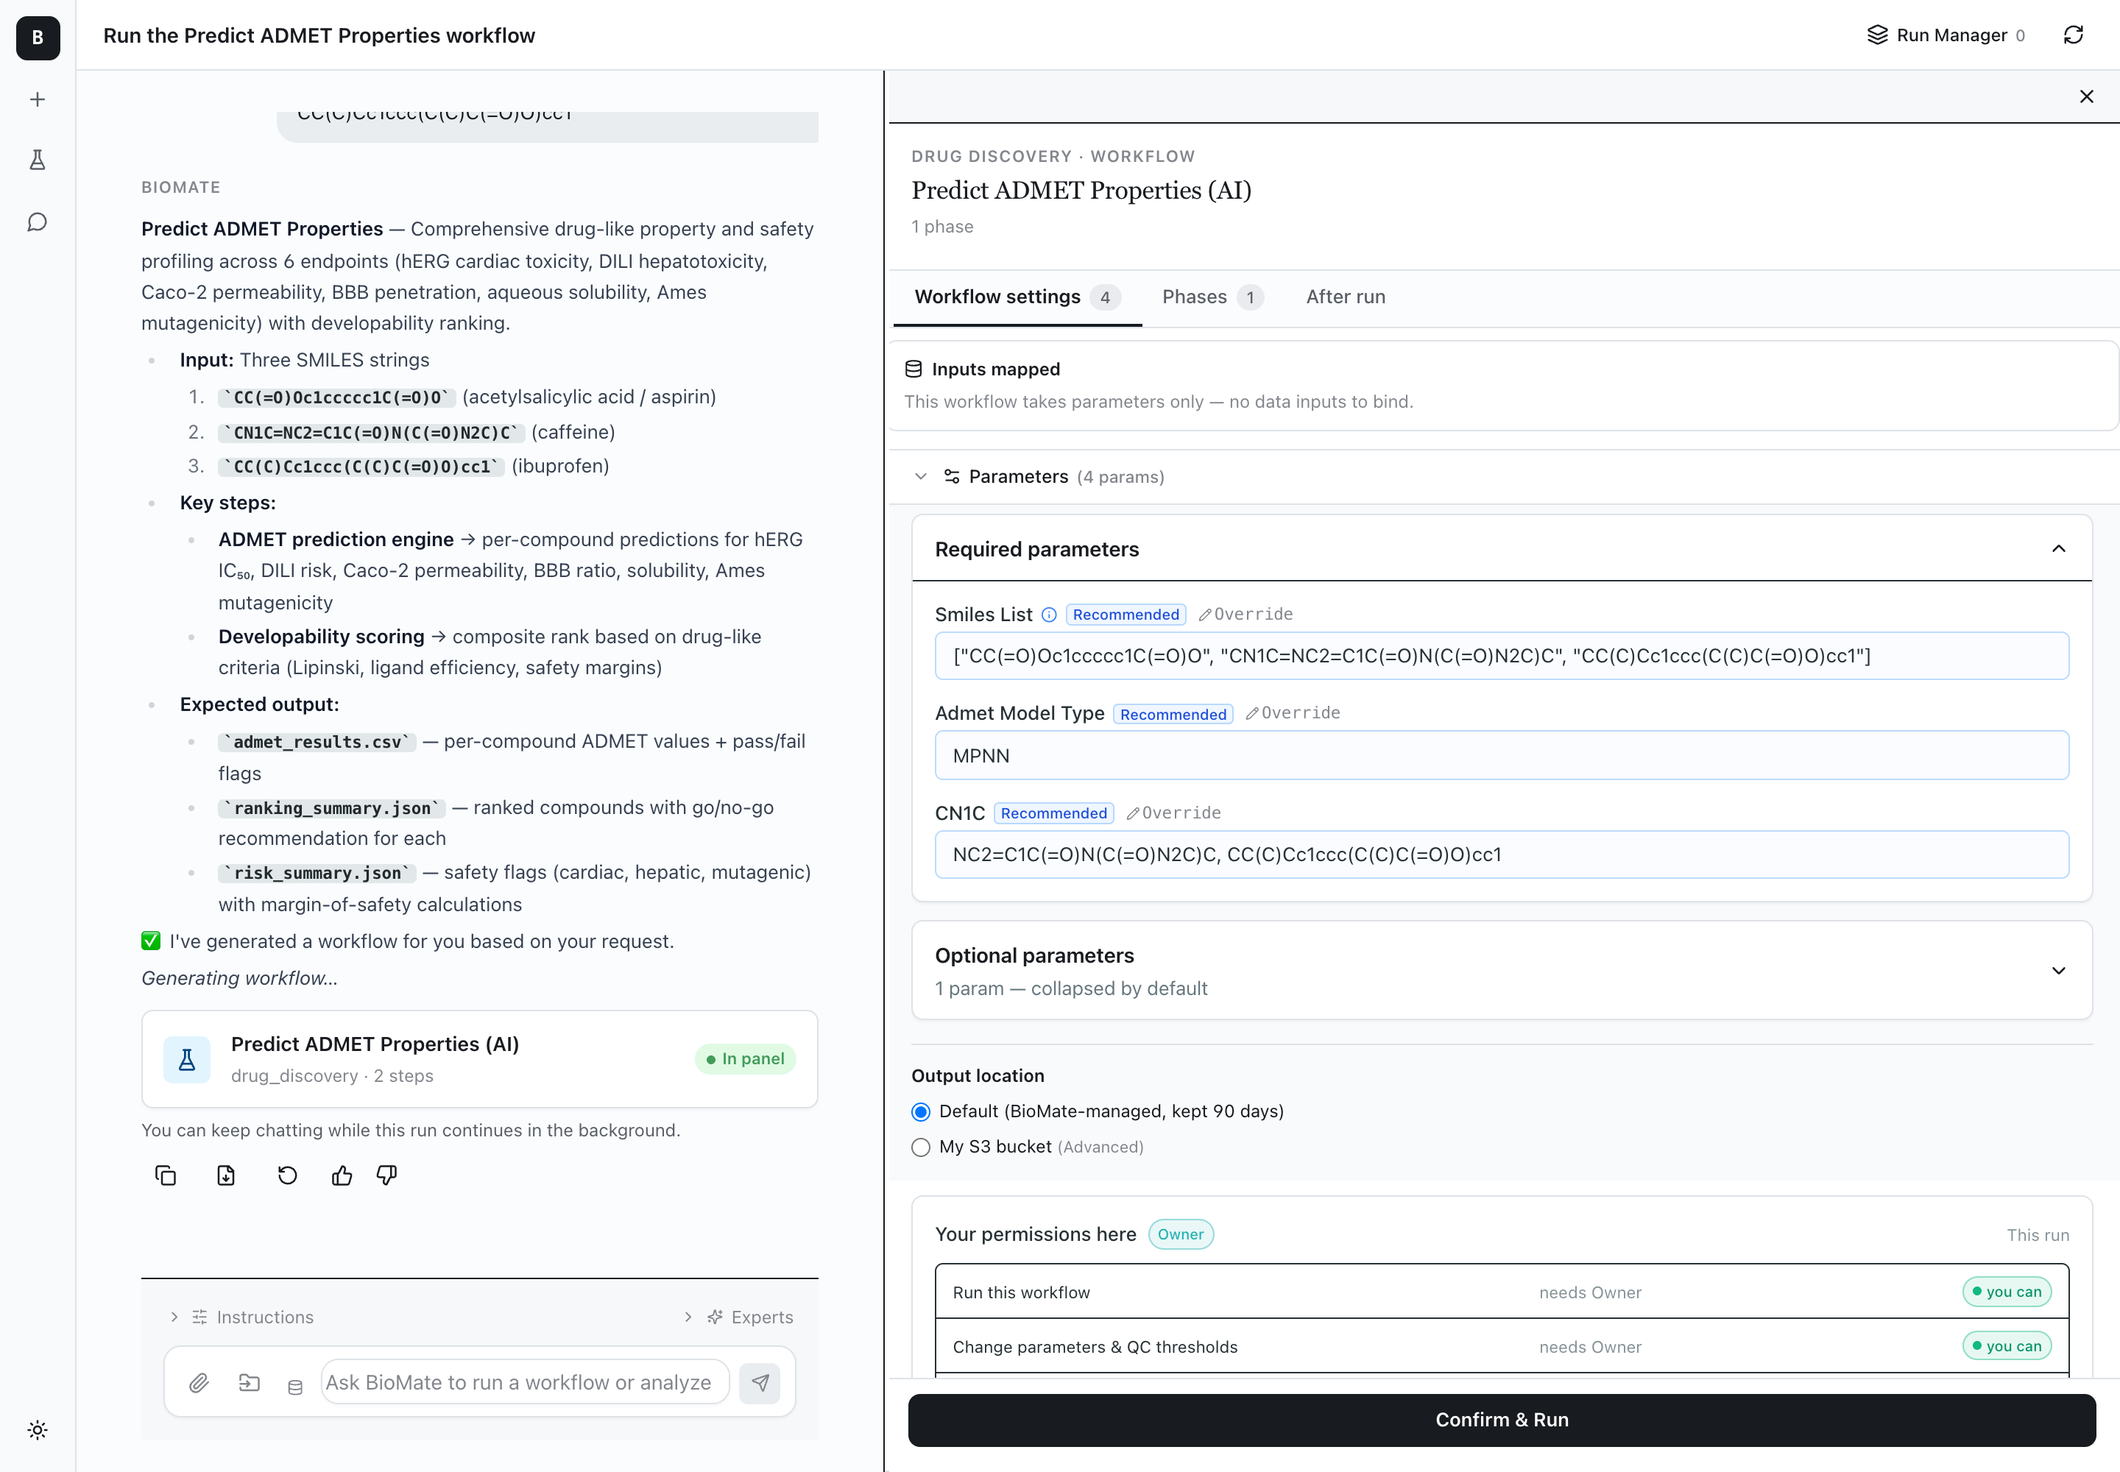
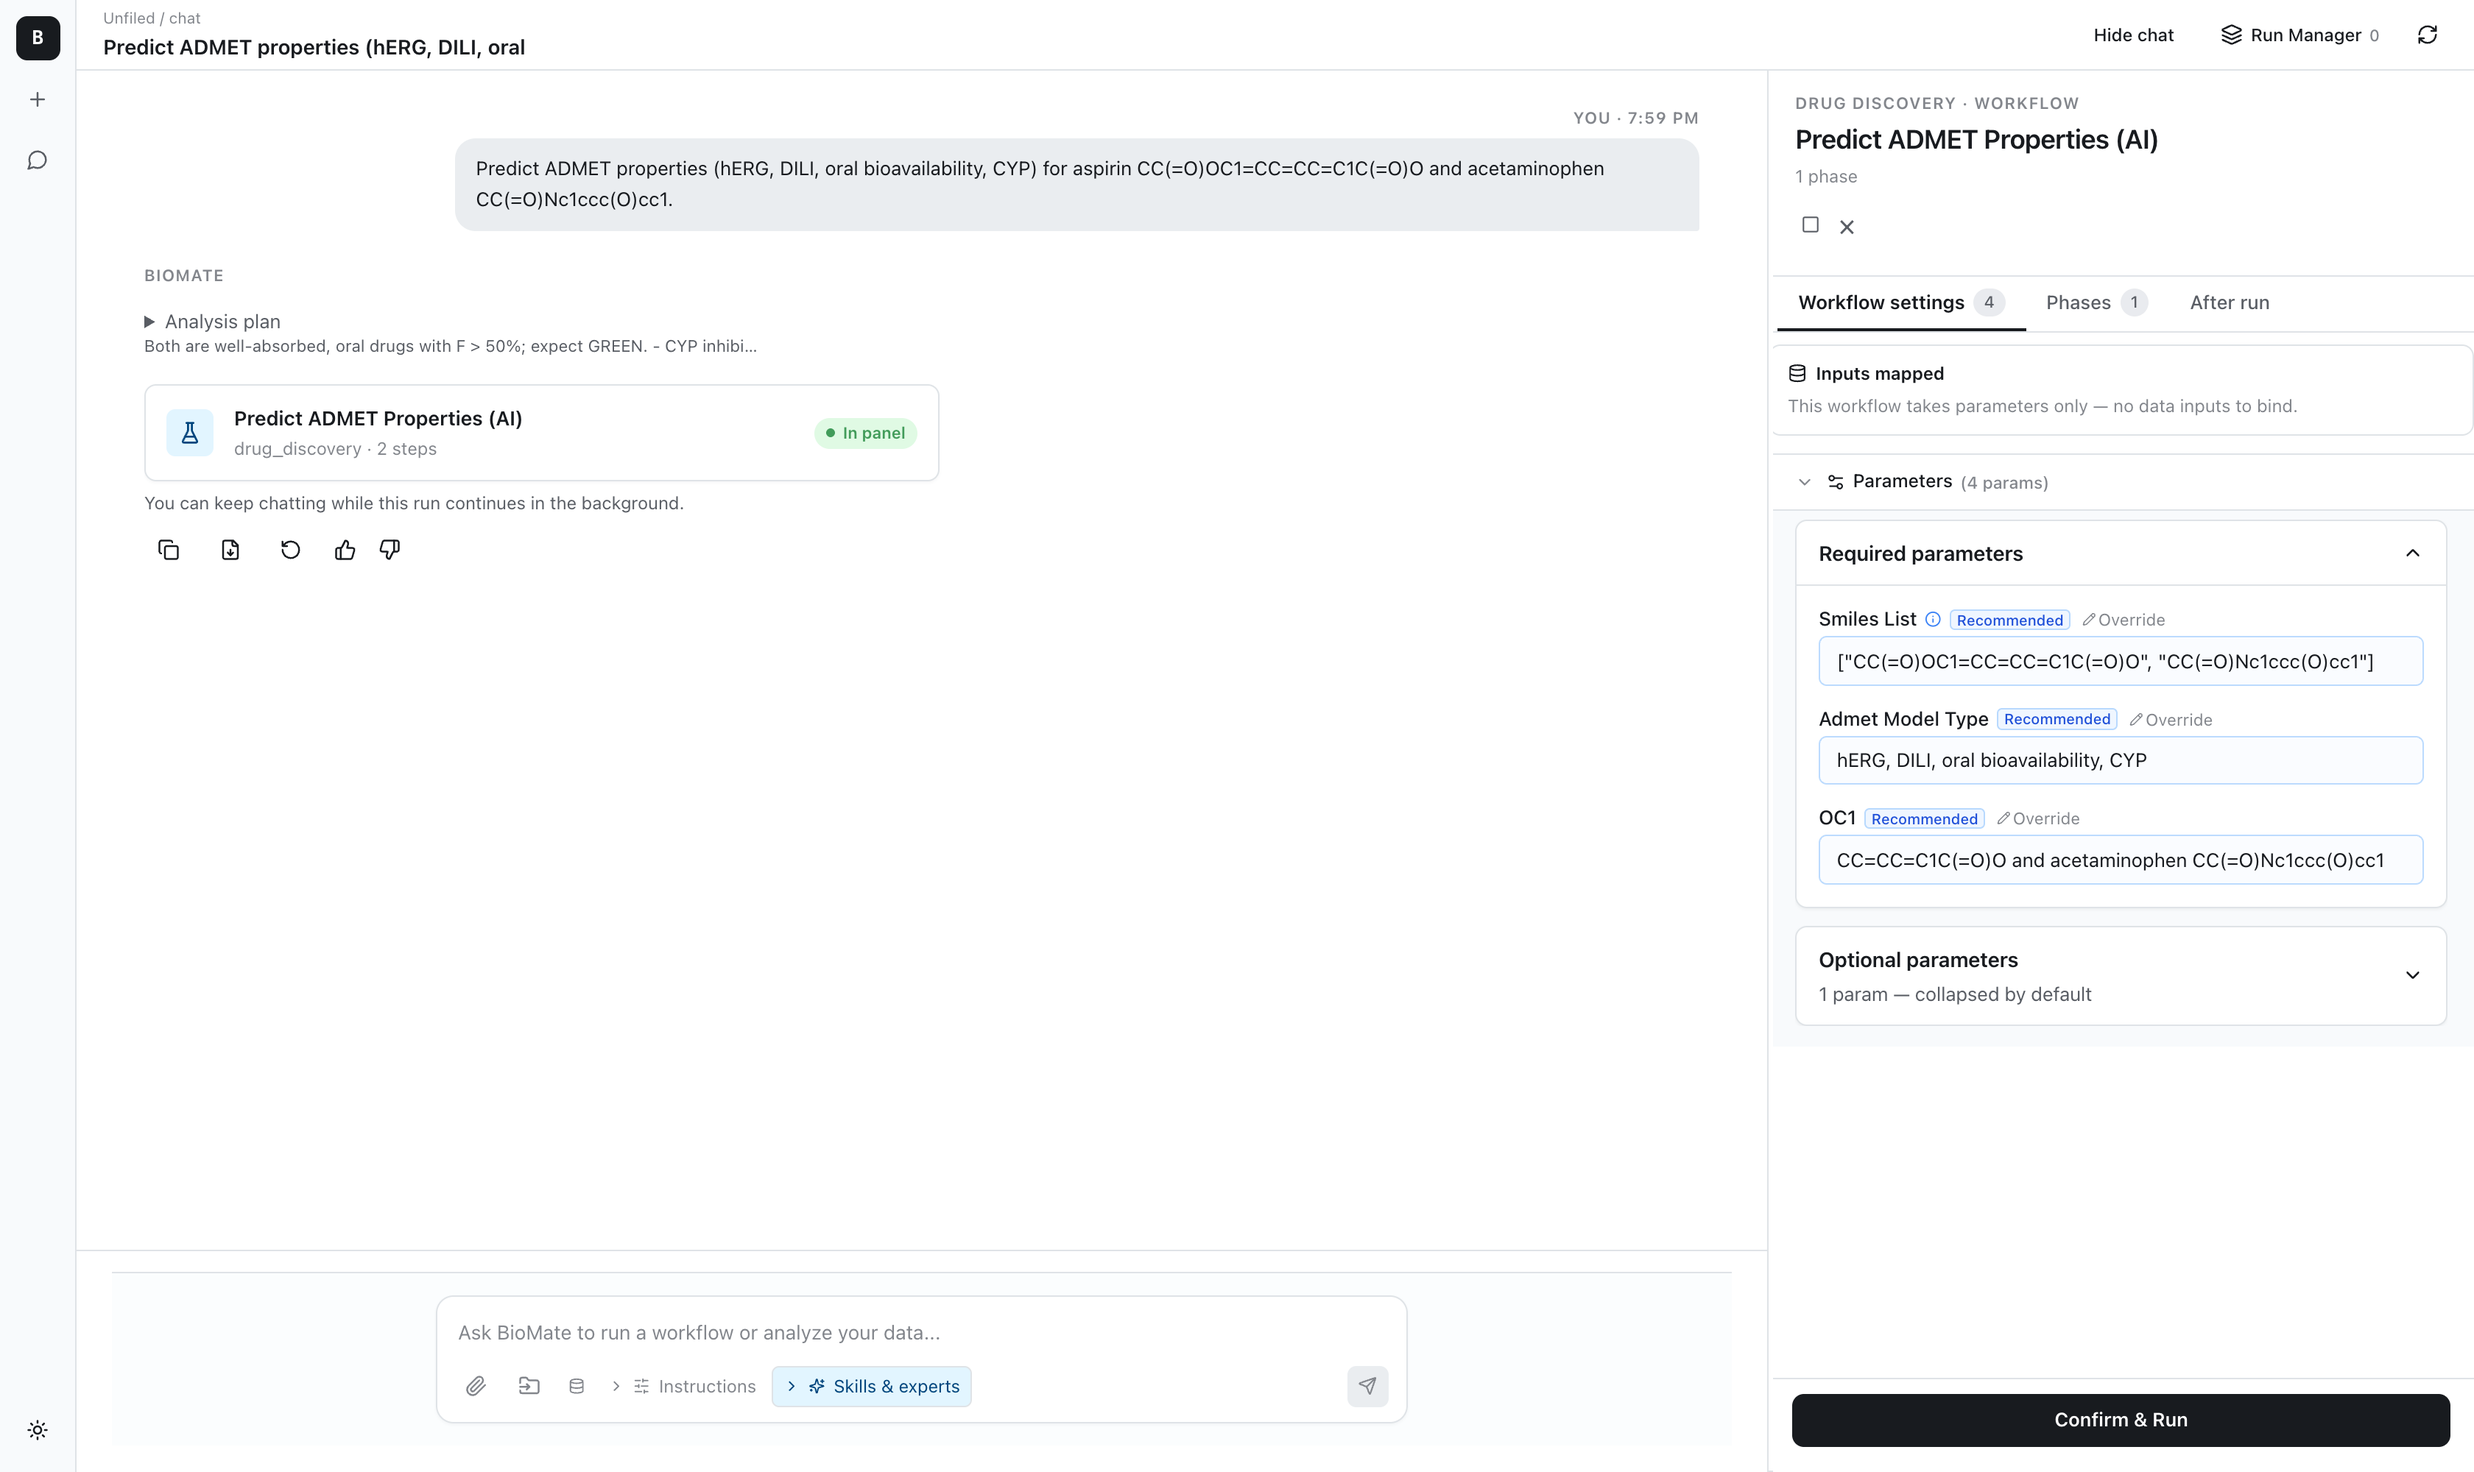
fix(manual): re-capture live pre-run + running panel states (current UI)
Live ADMET run: r1/t3-1 = idle pre-run Workflow-settings (params + Override
badges + Confirm & Run) — fixes the committee 'wrong view / showed completed'
flag; r2/w1-1 = running (Running badge, Admet Infer Shard RUNNING, QC gates,
Pause/Stop); w1-2 = the Workflow-settings tab (param-only ADMET, no file field).
All 2x (3360x2000). r8 (completed chat+panel) + s1-1 (sidebar) still pending.

diff --git a/frontend/e2e/manual-recapture-live.e2e.ts b/frontend/e2e/manual-recapture-live.e2e.ts
@@ -1,0 +1,93 @@
+/**
+ * Core-journey LIVE-state re-capture: one real ADMET run → pre-run (idle),
+ * running, completed-chat-and-panel, and the sidebar with a status dot.
+ * Selectors mirror real-run-capture.e2e.ts. Safety-gated to ADMET (cheap).
+ * Honest: only commit a state that actually renders. deviceScaleFactor=2.
+ */
+import { test, expect } from "@playwright/test";
+import * as path from "path";
+import { loginAsFixture, BASE_URL } from "./_fixture-login";
+
+test.use({ viewport: { width: 1680, height: 1000 }, deviceScaleFactor: 2 });
+const ASSETS = path.resolve(process.cwd(), "..", "docs/user-manual/assets");
+const ADMET_PROMPT =
+  "Predict ADMET properties (hERG, DILI, oral bioavailability, CYP) for aspirin CC(=O)OC1=CC=CC=C1C(=O)O and acetaminophen CC(=O)Nc1ccc(O)cc1.";
+
+test("live ADMET run — pre-run / running / completed / sidebar", async ({ page }) => {
+  test.setTimeout(30 * 60 * 1000);
+  await loginAsFixture(page);
+  const log: string[] = [];
+  const shot = async (name: string, el?: import("@playwright/test").Locator) => {
+    await (el ?? page).screenshot({ path: path.join(ASSETS, name) });
+    log.push("OK   " + name);
+  };
+
+  await page.goto(BASE_URL + "/", { waitUntil: "domcontentloaded", timeout: 45_000 });
+  const input = page.getByTestId("chat-input");
+  await input.waitFor({ state: "visible", timeout: 30_000 });
+  await page.waitForTimeout(3000);
+  await input.click();
+  await input.fill(ADMET_PROMPT);
+  const sendReady = page.locator('[data-testid="chat-send-button"]:not([disabled])');
+  await sendReady.waitFor({ state: "visible", timeout: 30_000 });
+  await sendReady.click({ timeout: 15_000 });
+  log.push("submitted ADMET");
+
+  const confirm = page.getByRole("button", { name: /confirm.*run/i });
+  await confirm.first().waitFor({ timeout: 180_000 });
+  await page.waitForTimeout(3500);
+
+  // SAFETY GATE — ADMET only (no heavy mis-routed Batch spend).
+  const panelText = (await page.locator("body").innerText()).toLowerCase();
+  if (!/admet/.test(panelText)) {
+    log.push("ABORT — not ADMET; no Confirm, no spend. panel=" + panelText.slice(0, 140).replace(/\n/g, " "));
+    // eslint-disable-next-line no-console
+    console.log("\n[live]\n" + log.join("\n") + "\n");
+    return;
+  }
+
+  // --- PRE-RUN (idle) — the Workflow-settings pre-run panel + param strip.
+  await shot("t3-1-workflow-panel.png");
+  await shot("r1-prerun-param-strip.png");
+  const wsTab = page.getByRole("tab", { name: /workflow settings/i }).first();
+  if ((await wsTab.count()) > 0) {
+    await wsTab.click({ timeout: 8000 }).catch(() => {});
+    await page.waitForTimeout(1500);
+    await shot("w1-2-workflow-settings.png");
+  } else { log.push("SKIP w1-2 (no Workflow settings tab)"); }
+
+  // --- CONFIRM & RUN.
+  const confirmBtn = page.getByRole("button", { name: /confirm.*run/i }).first();
+  await confirmBtn.scrollIntoViewIfNeeded().catch(() => {});
+  await confirmBtn.click({ timeout: 30_000 }).catch(async () => { await confirmBtn.click({ timeout: 15_000, force: true }); });
+  log.push("confirmed");
+
+  // --- RUNNING.
+  try {
+    await page.waitForFunction(() => !!document.querySelector('[data-status="running"]'), { timeout: 240_000 });
+    await page.waitForTimeout(1500);
+    await shot("r2-running.png");
+    const phasesTab = page.getByRole("tab", { name: /^phases$/i }).first();
+    if ((await phasesTab.count()) > 0) { await phasesTab.click({ timeout: 8000 }).catch(() => {}); await page.waitForTimeout(1200); }
+    await shot("w1-1-phases.png");
+  } catch { log.push("SKIP r2/w1-1 (running not observed)"); }
+
+  // --- COMPLETED — chat + panel together.
+  try {
+    await page.waitForFunction(
+      () => /Run again|COMPLETED|Completed/.test(document.body.innerText || ""),
+      { timeout: 24 * 60 * 1000 },
+    );
+    await page.waitForTimeout(5000);
+    await shot("r8-completed-chat-and-panel.png");
+  } catch { log.push("SKIP r8 (no completion)"); }
+
+  // --- SIDEBAR — chat history with a status dot.
+  const sidebar = page.locator('[data-testid="platform-sidebar"]').first();
+  if ((await sidebar.count()) > 0) { await shot("s1-1-sidebar.png", sidebar); }
+  else { log.push("SKIP s1-1 (no sidebar testid)"); }
+
+  // eslint-disable-next-line no-console
+  console.log("\n[live]\n" + log.join("\n") + "\n");
+  expect(log.some((r) => r.startsWith("OK"))).toBe(true);
+});
